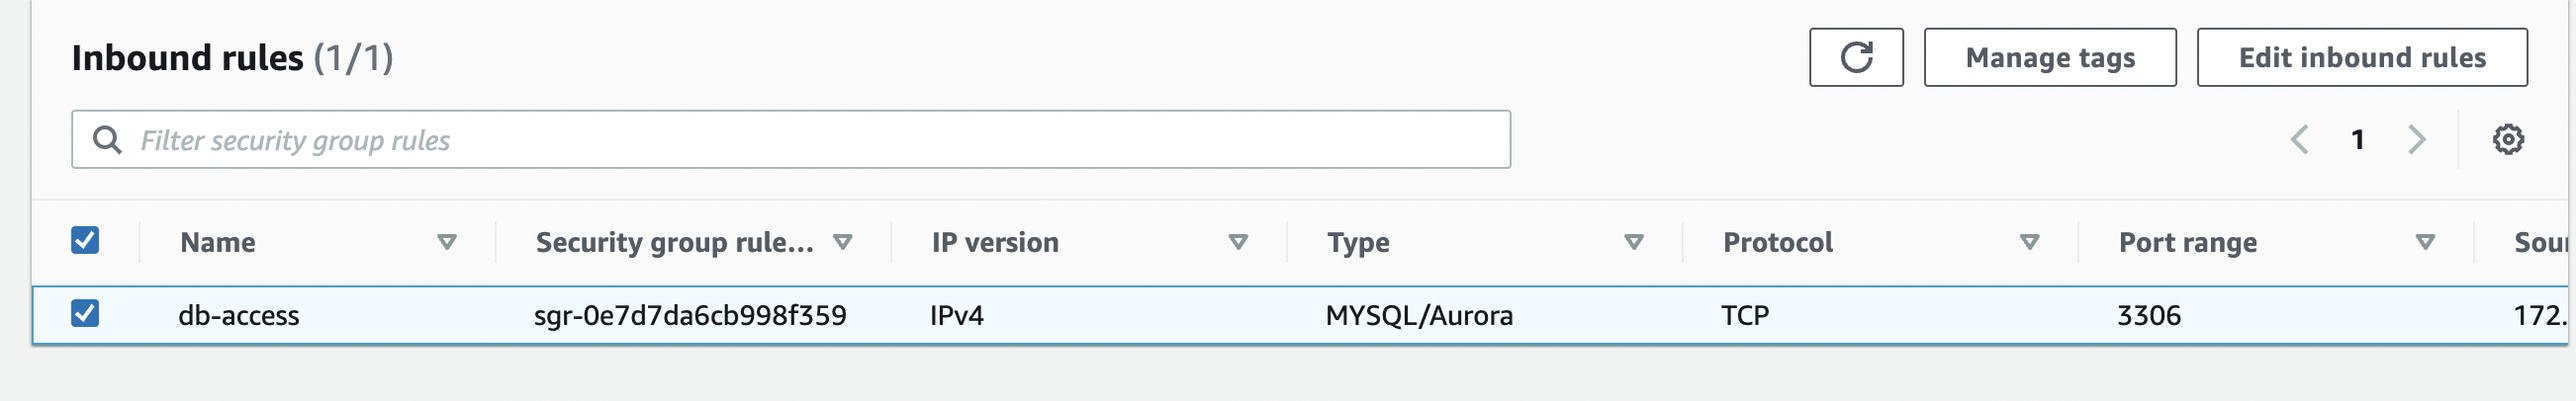
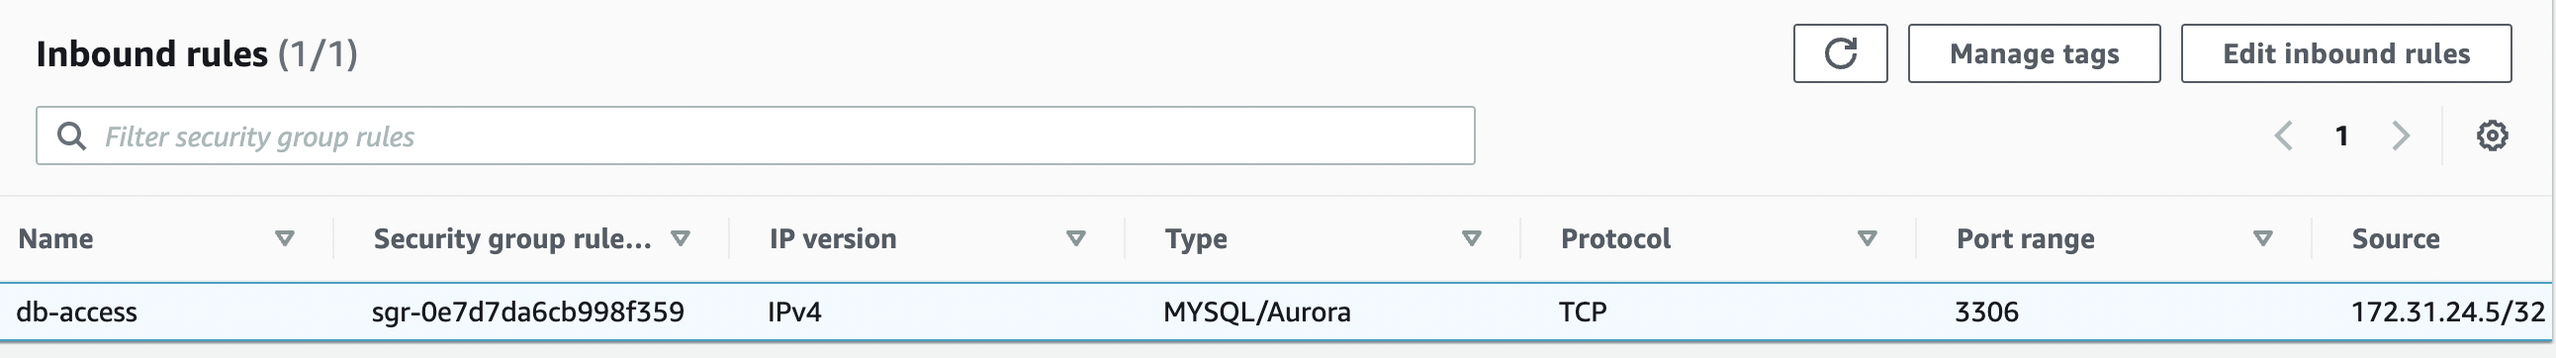
addressed review comments

diff --git a/content/blog/2022/2022-05-22-connect-to-aws-rds.md b/content/blog/2022/2022-05-22-connect-to-aws-rds.md
@@ -11,9 +11,15 @@ url: connect-rds-byjumphost
 
 Back-end server resources like databases often contain data that is critical for an application to function consistently. So these resources are protected from public access over the internet by placing them in a private subnet. This will however make it inaccessible to the database clients and applications running on our local development workstations. 
 
+We usually run data manipulation queries in query editors provided by different database clients or from our application's unit test cases to check out various scenarios during application development. 
+
+If the database is not accessible from our local workstation, we need to seek alternate methods of testing like moving the compiled application code to the cloud environment each time we want to test which is not very convenient and results in reducing productivity with a poor developer experience.
+
 This problem is addressed by using a server called "Jump host" that can receive requests from external sources over the internet and securely forward or "jump" to the database secured in the private subnet.
 
-In this tutorial, we will use a jump host for accessing an Amazon Relational Database Service(RDS) database residing in a private subnet.
+In this tutorial, we will use a jump host for accessing an Amazon Relational Database Service(RDS) database residing in a private subnet. 
+
+Amazon RDS supports multiple databases. We will use `MySQL` in our example. However, this approach will work for all other databases supported by Amazon RDS.
 
 ## Creating an RDS Database with Engine Type: MySQL
 Let us first create our RDS database using the AWS Management Console with `MySQL` as the engine type:
@@ -23,14 +29,14 @@ Let us first create our RDS database using the AWS Management Console with `MySQ
 For creating the RDS database in a private subnet we have used the following configurations:
 {{% image alt="Create RDS Database" src="images/posts/aws-rds-connect/connect.png" %}}
 
-We have used the default virtual private cloud(VPC) available in our AWS account and set the `public access` to `No`. We have also chosen the option to create a new security group named `db-sg` where we will define the inbound rules to allow traffic from selected sources. 
+We have used the default virtual private cloud(VPC) available in our AWS account and set the `public access` to `No`. We have also chosen the option to create a new security group where we will define the inbound rules to allow traffic from selected sources. 
 
 We will also select `Password authentication` as the Database authentication option.
 
 Our RDS database created in a private subnet is ready to use when the status changes to `available`
 {{% image alt="Create RDS Database" src="images/posts/aws-rds-connect/db-created.png" %}}
 
-When the database is ready to be used, we can see the endpoint of the database along with the port which we will use later to connect to the database.
+When the database is ready to be used, we can see the endpoint of the database along with the port which we will use later to connect to the database. 
 
 With our database created, we will next set up a jump host and populate inbound rules in the security groups in the following sections.
 
@@ -45,7 +51,15 @@ Let us create the EC2 instance from the AWS Management Console in a public subne
 
 {{% image alt="Create EC2 bastion" src="images/posts/aws-rds-connect/create-ec2.png" %}}
 
-We have created our instance in the free tier with an SSH key pair to access the instance with SSH in the later sections. The private key of the SSH key pair is downloaded and saved to our local workstation. 
+We have created our instance in the free tier with an SSH key pair to securely access the instance with SSH in the later sections. An SSH key pair is used to authenticate the identity of a user or process (local workstation) that wants to access a remote system (the EC2 instance) using the SSH protocol.
+
+We can either create a new SSH key pair or choose to use an existing key pair when creating the instance. We have created a new key pair as shown below: 
+
+{{% image alt="Key pair" src="images/posts/aws-rds-connect/key-pair.png" %}}
+
+The SSH key pair consists of a public key and a private key. The public key is used by the local workstation and the EC2 instance to encrypt messages. On the EC2 side, it is saved as an entry in a file: `~/.ssh/authorized_keys` that contains a list of all authorized public keys.
+
+We have downloaded the private key of the SSH key pair and saved it to our local workstation. 
 
 For creating the instance in the public subnet we have used the network settings as shown below:
 {{% image alt="Create EC2 bastion" src="images/posts/aws-rds-connect/ec2-network.png" %}}
@@ -55,18 +69,22 @@ We will use this EC2 instance as our jump host on which we will set up an SSH tu
 ## Allow Traffic to the RDS Database from the Jump Host
 To enable connectivity to our RDS database, any security groups, network ACL, security rules, or third-party security software that exist on the RDS database must allow traffic from the EC2 instance used as the jump host. 
 
-In our example, the security group of our RDS database must allow access to port `3306` from the EC2 instance. To enable this, let us add an inbound rule to the security group `db-sg` to allow connections from the EC2 instance:
+In our example, the security group of our RDS database must allow access to port `3306` from the EC2 instance. To enable this access, let us add an inbound rule to the new security group associated with the RDS database to allow connections from the EC2 instance:
 
 {{% image alt="Create RDS Database" src="images/posts/aws-rds-connect/added-ingress.png" %}}
 
-This EC2 instance is also secured by a security group. A security group by default is associated with an outbound rule which has all outbound traffic enabled. This will allow the EC2 instance to make an outbound connection to the RDS database.
+Here we have specified the port range as `3306` and the source as `172.31.24.5/32` which is the private IP of the EC2 instance.
+
+The EC2 instance is also secured by a security group. A security group is associated with an outbound rule, by default, that allows outbound traffic to all destinations. Accordingly, this rule will also allow the EC2 instance to make an outbound connection to the RDS database.
 
 ## Connecting to the RDS Database
-We use a mechanism called SSH tunneling or port forwarding for connecting to the RDS database. SSH tunneling is a method of transporting arbitrary networking data over an encrypted SSH connection.
+We use a mechanism called: SSH tunneling or port forwarding for connecting to the RDS database. SSH tunneling is a method of transporting arbitrary networking data over an encrypted SSH connection.
 
 The SSH client on our local workstation listens for connections on a configured port. When it receives a connection, it tunnels the connection to the SSH server which is our EC2 instance acting as the jump host. 
 
 The SSH server(EC2 instance) connects to a destination port, usually on a different machine than the SSH server. In our example, the destination port is the port of the RDS database. 
+
+Additionally, since the SSH private key is securely saved on our local workstation, the communication with the RDS database is secured/encrypted over the SSH tunnel and the owner of the SSH private key is authenticated by the jump host.
 
 Please refer to the official [documentation](https://www.ssh.com/academy/ssh/tunneling) to understand more details about SSH tunneling.
 
@@ -110,10 +128,10 @@ We can see the successful test connection message with the following parameters 
 7. **Password**: Password of the RDS MySQL database set up during RDS database creation.
 
 ## Conclusion 
-In this article, we walked through the steps of creating an RDS database in a private subnet and then connecting to the database using a jump host:
+In this article, we walked through the stages of creating an RDS database in a private subnet and then connecting to the database using a jump host. Here is a summary of the steps for our quick reference:
 
 1. Create an RDS database in a private subnet.
-2. Create an EC2 instance in a public subnet in the same VPC where the RDS database was created. This EC2 instance will act as the bastion or Jump host for connecting to the RDS database. A bastion or jump host is a server whose purpose is to provide access to a private network from an external network like the Internet. 
+2. Create an EC2 instance in a public subnet in the same VPC where the RDS database was created. This EC2 instance will act as the bastion or Jump host for connecting to the RDS database. A bastion or jump host is a server whose purpose is to provide access to a private network from an external network like the internet. 
 3. Add an inbound rule to the security group associated with the RDS database to allow incoming traffic from the EC2 instance created in step 2.
 4. Optionally add an outbound rule to the security group associated with the EC2 instance to allow outgoing traffic to the RDS database.
 5. Use a database client and connect to the endpoint of the RDS database with the database credentials configured during creation time or later using the SSH tunneling method.
